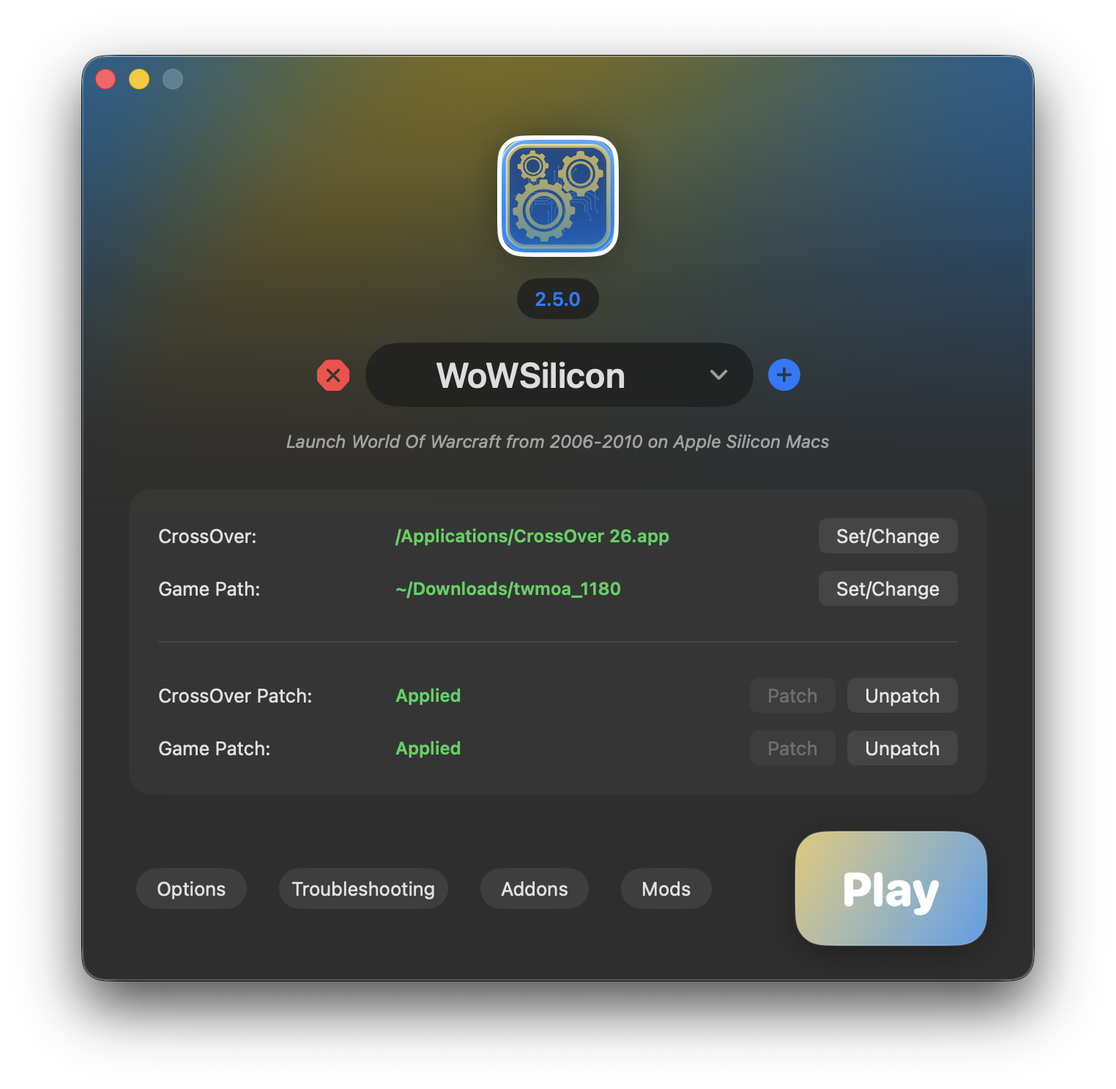
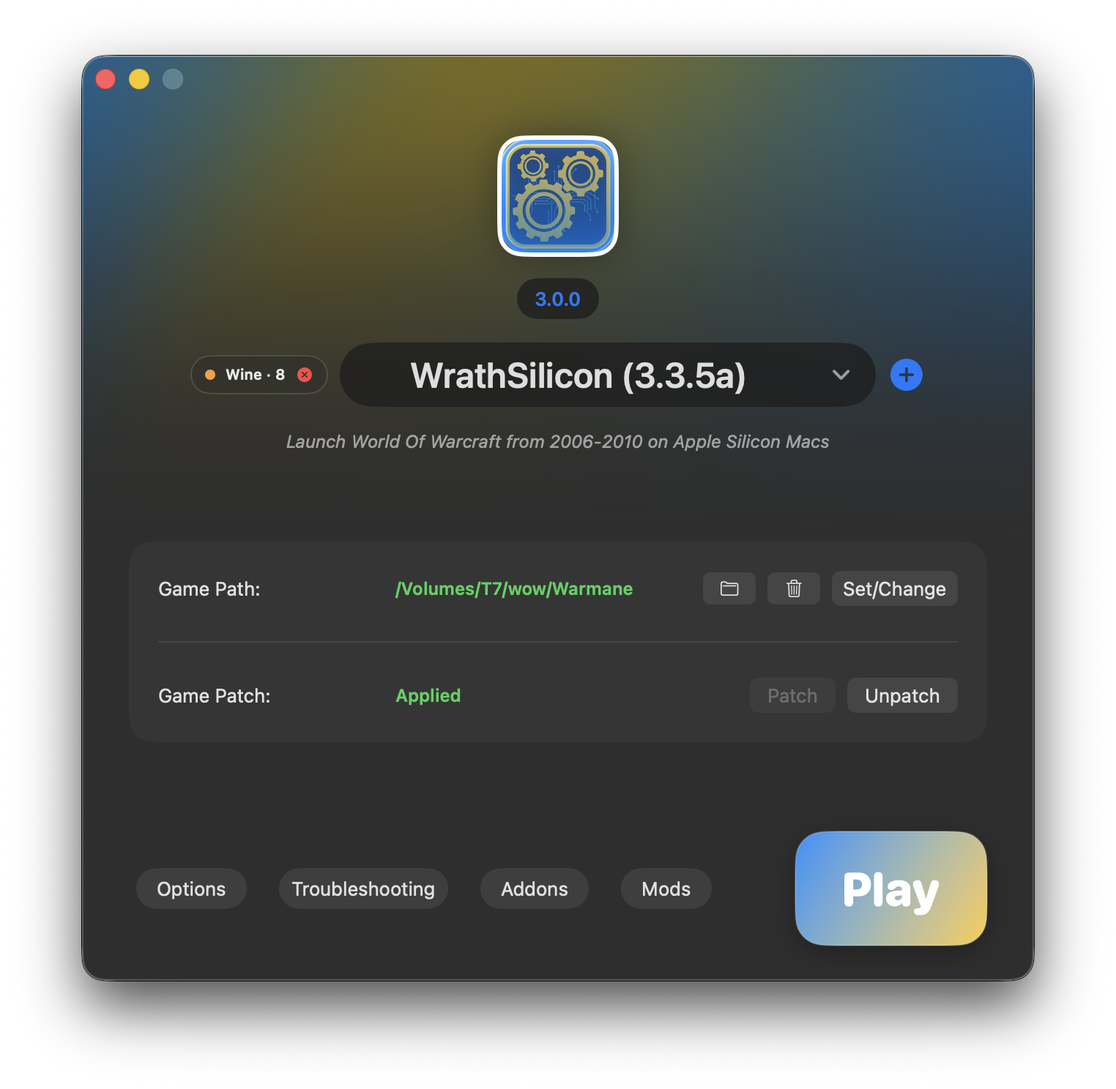
WoWSilicon 3.0 with standalone Wine runtime, D9VK, and accelerated x87 translation

diff --git a/index.html b/index.html
@@ -7,9 +7,9 @@
     <title>WoWSilicon - World of Warcraft Launcher for Apple Silicon Macs</title>
     <meta name="title" content="WoWSilicon - World of Warcraft Launcher for Apple Silicon Macs">
     <meta name="description"
-        content="WoWSilicon is a macOS launcher for running classic World of Warcraft clients on Apple Silicon. It patches CrossOver, installs RosettaX87 and libSiliconPatch, and manages addons and mods.">
+        content="WoWSilicon is a standalone macOS launcher for classic World of Warcraft and 32-bit Direct3D 9 games on Apple Silicon, with bundled Wine, D9VK, MTLd3D, and accelerated x87 translation.">
     <meta name="keywords"
-        content="WoWSilicon, World of Warcraft, WoW, Apple Silicon, M1, M2, M3, M4, Mac launcher, Vanilla, TBC, WotLK, Turtle WoW, Project Epoch, CrossOver, Wine, Rosetta 2, x87, SSE, libSiliconPatch, rosettax87, macOS">
+        content="WoWSilicon, World of Warcraft, WoW, Apple Silicon, M1, M2, M3, M4, Mac launcher, Vanilla, TBC, WotLK, Turtle WoW, Project Epoch, Wine, D9VK, MTLd3D, Metal, HDR, Rosetta 2, x87sidecar, x87, SSE, libSiliconPatch, rosettax87, Direct3D 9, macOS">
     <meta name="author" content="WoWSilicon">
     <meta name="robots" content="index, follow">
     <meta name="theme-color" content="#1f6feb">
@@ -19,7 +19,7 @@
     <meta property="og:url" content="https://wowsilicon.github.io/">
     <meta property="og:title" content="WoWSilicon - World of Warcraft Launcher for Apple Silicon Macs">
     <meta property="og:description"
-        content="Patch and launch Vanilla, TBC, and WotLK-era World of Warcraft clients on Apple Silicon Macs with CrossOver, RosettaX87, libSiliconPatch, and DX9 translation support.">
+        content="Launch Vanilla, TBC, and WotLK-era World of Warcraft clients on Apple Silicon Macs with bundled Wine, D9VK or MTLd3D, and accelerated x87 translation.">
     <meta property="og:image" content="https://wowsilicon.github.io/Icon.png">
     <meta property="og:image:width" content="512">
     <meta property="og:image:height" content="512">
@@ -31,7 +31,7 @@
     <meta property="twitter:url" content="https://wowsilicon.github.io/">
     <meta property="twitter:title" content="WoWSilicon - World of Warcraft Launcher for Apple Silicon Macs">
     <meta property="twitter:description"
-        content="Patch and launch classic World of Warcraft clients on Apple Silicon Macs with CrossOver, RosettaX87, libSiliconPatch, and DX9 translation support.">
+        content="Launch classic World of Warcraft clients on Apple Silicon Macs with bundled Wine, D9VK or MTLd3D, and accelerated x87 translation.">
     <meta property="twitter:image" content="https://wowsilicon.github.io/Icon.png">
 
     <link rel="icon" href="/favicon.ico" sizes="any">
@@ -113,6 +113,11 @@
             border: 1px solid rgba(139, 188, 255, 0.22);
         }
 
+        .release-badge {
+            display: inline-block;
+            letter-spacing: 0.04em;
+        }
+
         a,
         button {
             cursor: pointer;
@@ -143,14 +148,17 @@
             <div>
                 <img src="Icon.png" alt="WoWSilicon icon" class="mb-7 w-24 h-24 rounded-2xl glow" width="512"
                     height="512" decoding="async">
+                <p class="release-badge px-4 py-2 mb-5 text-sm font-semibold rounded-lg panel-strong text-accent">
+                    WoWSilicon 3.0 · Standalone runtime
+                </p>
                 <h1 class="mb-5 text-4xl font-bold leading-tight sm:text-5xl md:text-6xl font-display text-gold">
                     WoWSilicon</h1>
                 <p class="mb-6 max-w-2xl text-xl leading-relaxed text-gray-200 sm:text-2xl">
-                    A focused macOS launcher for World of Warcraft from 2006-2010 on Apple Silicon Macs.
+                    Launch classic World of Warcraft on Apple Silicon—without CrossOver.
                 </p>
                 <p class="mb-8 max-w-2xl text-base leading-7 text-gray-400 sm:text-lg">
-                    WoWSilicon wires together CrossOver, RosettaX87, DX9 translation, and libSiliconPatch so older WoW
-                    clients can run on macOS.
+                    WoWSilicon 3.0 bundles its own Wine runtime, D9VK and MTLd3D graphics backends, accelerated x87
+                    translation, and the tools needed to manage older game clients from one app.
                 </p>
                 <p class="mb-8 max-w-2xl text-base leading-7 text-gray-400 sm:text-lg">
                     Say goodbye to dedicating a full Windows VM just to play old WoW. Run directly on macOS, save
@@ -188,15 +196,15 @@
                 </div>
                 <div class="p-5 rounded-lg panel">
                     <p class="text-sm uppercase tracking-wide text-gray-500">Runtime</p>
-                    <p class="mt-2 text-xl font-semibold text-gold">RosettaX87 + DX9</p>
+                    <p class="mt-2 text-xl font-semibold text-gold">Bundled Wine 11</p>
                 </div>
                 <div class="p-5 rounded-lg panel">
-                    <p class="text-sm uppercase tracking-wide text-gray-500">Optimization</p>
-                    <p class="mt-2 text-xl font-semibold text-gold">libSiliconPatch</p>
+                    <p class="text-sm uppercase tracking-wide text-gray-500">Graphics</p>
+                    <p class="mt-2 text-xl font-semibold text-gold">D9VK + MTLd3D</p>
                 </div>
                 <div class="p-5 rounded-lg panel">
-                    <p class="text-sm uppercase tracking-wide text-gray-500">Management</p>
-                    <p class="mt-2 text-xl font-semibold text-gold">Addons + Mods</p>
+                    <p class="text-sm uppercase tracking-wide text-gray-500">x87 Translation</p>
+                    <p class="mt-2 text-xl font-semibold text-gold">JIT + Sidecar</p>
                 </div>
             </div>
         </section>
@@ -204,39 +212,50 @@
         <section id="features" class="container px-4 py-14 mx-auto sm:px-6 sm:py-20">
             <h2 class="mb-5 text-3xl font-bold text-center sm:text-4xl font-display text-gold">What WoWSilicon Does</h2>
             <p class="mx-auto mb-10 max-w-3xl text-center leading-8 text-gray-300">
-                The launcher is meant to make the fragile parts of older Windows WoW clients repeatable: choose a
-                profile, patch CrossOver, patch the game folder, adjust options, and launch.
+                Choose a profile or executable, patch the game folder, select your graphics and x87 backends, and
+                launch. The Wine runtime and translators are already included.
             </p>
             <div class="grid gap-5 mx-auto max-w-6xl md:grid-cols-2 lg:grid-cols-3">
                 <article class="p-6 rounded-lg panel">
                     <h3 class="mb-3 text-xl font-semibold text-accent">Version Profiles</h3>
                     <p class="leading-7 text-gray-300">Built-in profiles for VanillaSilicon 1.12.1, BurningSilicon
-                        2.4.3, and WrathSilicon 3.3.5a, with custom profiles for any server variants.</p>
+                        2.4.3, and WrathSilicon 3.3.5a, plus custom profiles and experimental profiles for other 32-bit
+                        Direct3D 9 games.</p>
                 </article>
                 <article class="p-6 rounded-lg panel">
-                    <h3 class="mb-3 text-xl font-semibold text-accent">CrossOver Patching</h3>
-                    <p class="leading-7 text-gray-300">Creates a patched wineloader path and adjusts CrossOver runtime
-                        files needed by the RosettaX87 launch flow.</p>
+                    <h3 class="mb-3 text-xl font-semibold text-accent">Standalone Wine Runtime</h3>
+                    <p class="leading-7 text-gray-300">Ships with a purpose-built Wine runtime. CrossOver and a
+                        separate Wine installation are no longer required.</p>
                 </article>
                 <article class="p-6 rounded-lg panel">
                     <h3 class="mb-3 text-xl font-semibold text-accent">Game Folder Patching</h3>
-                    <p class="leading-7 text-gray-300">Installs winerosetta, d3d9, libDllLdr, RosettaX87 files, and
-                        optional libSiliconPatch into the selected client folder.</p>
+                    <p class="leading-7 text-gray-300">Installs the appropriate Direct3D 9 and WoW-specific runtime
+                        files while keeping generic game profiles limited to the required d3d9.dll.</p>
                 </article>
                 <article class="p-6 rounded-lg panel">
-                    <h3 class="mb-3 text-xl font-semibold text-accent">Addon Manager</h3>
-                    <p class="leading-7 text-gray-300">Install addons from Git URLs, update individual addons, update
-                        all, bulk import/export addon lists, and filter Git-managed addons.</p>
+                    <h3 class="mb-3 text-xl font-semibold text-accent">Two Graphics Backends</h3>
+                    <p class="leading-7 text-gray-300">Use D9VK for Vulkan-based translation or MTLd3D for direct
+                        Direct3D 9-to-Metal rendering, including optional HDR.</p>
                 </article>
                 <article class="p-6 rounded-lg panel">
-                    <h3 class="mb-3 text-xl font-semibold text-accent">Mod Manager</h3>
-                    <p class="leading-7 text-gray-300">Enable, disable, refresh, and remove DLL-style mods while keeping
-                        required runtime pieces protected.</p>
+                    <h3 class="mb-3 text-xl font-semibold text-accent">Flexible x87 Translation</h3>
+                    <p class="leading-7 text-gray-300">Choose between rosettax87_jit and x87sidecar per profile, or
+                        disable accelerated x87 translation for troubleshooting.</p>
                 </article>
                 <article class="p-6 rounded-lg panel">
-                    <h3 class="mb-3 text-xl font-semibold text-accent">Options Built In</h3>
-                    <p class="leading-7 text-gray-300">Configure graphics, cursor size, Retina mode, Option-as-Alt,
-                        realmlist, custom environment variables, terminal launch mode, and Metal HUD.</p>
+                    <h3 class="mb-3 text-xl font-semibold text-accent">Addons and Mods</h3>
+                    <p class="leading-7 text-gray-300">Install nested addon repositories, update managed addons, and
+                        enable or remove DLL-style mods while protecting required runtime files.</p>
+                </article>
+                <article class="p-6 rounded-lg panel">
+                    <h3 class="mb-3 text-xl font-semibold text-accent">Process Monitoring</h3>
+                    <p class="leading-7 text-gray-300">See when Wine processes are active and use Force Quit when a
+                        game or helper process remains open.</p>
+                </article>
+                <article class="p-6 rounded-lg panel">
+                    <h3 class="mb-3 text-xl font-semibold text-accent">Dependencies Built In</h3>
+                    <p class="leading-7 text-gray-300">Install Wine Mono, Microsoft Visual C++ 2022, and Git from the
+                        Dependencies view when a client or addon needs them.</p>
                 </article>
             </div>
         </section>
@@ -244,7 +263,7 @@
         <section id="runtime" class="container px-4 py-14 mx-auto sm:px-6 sm:py-20">
             <div class="grid gap-8 mx-auto max-w-6xl lg:grid-cols-[0.9fr_1.1fr]">
                 <div>
-                    <h2 class="mb-5 text-3xl font-bold sm:text-4xl font-display text-gold">Why the Runtime Patch Matters
+                    <h2 class="mb-5 text-3xl font-bold sm:text-4xl font-display text-gold">Why x87 Translation Matters
                     </h2>
                     <p class="mb-5 leading-8 text-gray-300">
                         Classic WoW clients rely on old x86 behavior, including x87 floating-point instructions. On
@@ -252,9 +271,9 @@
                         SSE-oriented code paths.
                     </p>
                     <p class="mb-5 leading-8 text-gray-300">
-                        WoWSilicon includes the libSiliconPatch work to hook into the game at runtime and reduce x87
-                        instruction usage where possible. In practical terms, it steers hot code toward SSE-friendly
-                        behavior, which Rosetta 2 tends to translate more efficiently.
+                        WoWSilicon lets each profile use rosettax87_jit, x87sidecar, or no accelerated translator.
+                        Supported WoW clients can also use libSiliconPatch to replace selected hot paths with
+                        SSE-friendly implementations.
                     </p>
                 </div>
                 <div class="grid gap-4">
@@ -264,15 +283,19 @@
                             SSE, which results in better performance on Apple Silicon.</p>
                     </div>
                     <div class="p-6 rounded-lg panel-strong">
-                        <h3 class="mb-3 text-xl font-semibold text-accent">RosettaX87</h3>
-                        <p class="leading-7 text-gray-300">Hooks Rosetta 2 directly and emits ARM instructions to
-                            accelerate x87 globally.</p>
+                        <h3 class="mb-3 text-xl font-semibold text-accent">rosettax87_jit</h3>
+                        <p class="leading-7 text-gray-300">Hooks Rosetta 2 and emits ARM instructions to accelerate x87
+                            translation, with support for current macOS releases.</p>
                     </div>
                     <div class="p-6 rounded-lg panel-strong">
-                        <h3 class="mb-3 text-xl font-semibold text-accent">DX9 Translation</h3>
-                        <p class="leading-7 text-gray-300">WoWSilicon stages d3d9 and starts the game with
-                            DXVK/MoltenVK-related environment settings, including optional Metal HUD output for
-                            troubleshooting FPS.</p>
+                        <h3 class="mb-3 text-xl font-semibold text-accent">x87sidecar</h3>
+                        <p class="leading-7 text-gray-300">Runs accelerated x87 translation in an isolated helper
+                            process as an alternative to rosettax87_jit.</p>
+                    </div>
+                    <div class="p-6 rounded-lg panel-strong">
+                        <h3 class="mb-3 text-xl font-semibold text-accent">D9VK or MTLd3D</h3>
+                        <p class="leading-7 text-gray-300">Choose Vulkan-based D9VK or the Metal-native MTLd3D backend
+                            per profile. Both are bundled with WoWSilicon.</p>
                     </div>
                 </div>
             </div>
@@ -291,6 +314,8 @@
                             enabled by default.</li>
                         <li><span class="font-semibold text-accent">Custom profiles</span> - create additional profiles
                             from the base versions for custom WoW clients or alternate folders.</li>
+                        <li><span class="font-semibold text-accent">Non-WoW game</span> - experimental support for other
+                            32-bit Direct3D 9 games using a selected executable and d3d9.dll only.</li>
                     </ul>
                 </div>
                 <div class="p-7 rounded-lg panel">
@@ -298,10 +323,8 @@
                     <ul class="space-y-4 text-gray-300">
                         <li>Apple Silicon Mac, M1 or newer.</li>
                         <li>macOS 15 or later.</li>
-                        <li>CrossOver 26 installed and opened at least once.</li>
-                        <li>An <strong>original</strong> World of Warcraft client folder with the game executable
-                            inside.</li>
-                        <li>Permission to modify the selected game folder and CrossOver app bundle.</li>
+                        <li>A supported World of Warcraft client or experimental 32-bit Direct3D 9 executable.</li>
+                        <li>Permission to read and modify the selected game folder.</li>
                     </ul>
                 </div>
             </div>
@@ -330,8 +353,8 @@
                 <h2 class="mb-5 text-3xl font-bold text-center sm:text-4xl font-display text-gold">Installation Guide
                 </h2>
                 <p class="mx-auto mb-12 max-w-2xl text-center text-lg leading-8 text-gray-300">
-                    These steps mirror the old TurtleSilicon setup flow, updated for WoWSilicon and the current patch
-                    stack.
+                    WoWSilicon includes the runtime it needs. Install the app, choose a profile or executable, and
+                    patch the selected game folder.
                 </p>
 
                 <div class="space-y-6">
@@ -394,11 +417,11 @@
                                 class="flex-shrink-0 flex justify-center items-center w-10 h-10 font-bold text-white rounded-full bg-accent">
                                 4</div>
                             <div>
-                                <h3 class="mb-2 text-xl font-semibold text-accent">Run CrossOver once</h3>
-                                <p class="mb-3 leading-7 text-gray-300">Open CrossOver from Applications once, allow
-                                    macOS to open it, then quit it.</p>
-                                <p class="leading-7 text-gray-400">This lets CrossOver initialize its internal files
-                                    before WoWSilicon patches the wineloader path.</p>
+                                <h3 class="mb-2 text-xl font-semibold text-accent">Launch and choose a profile</h3>
+                                <p class="mb-3 leading-7 text-gray-300">Open WoWSilicon and select a built-in WoW
+                                    profile, create a custom profile, or choose the experimental Non-WoW game option.</p>
+                                <p class="leading-7 text-gray-400">Select the game executable when prompted and allow
+                                    macOS to access its folder. Existing 2.5.5 profiles are migrated automatically.</p>
                             </div>
                         </div>
                     </div>
@@ -409,59 +432,13 @@
                                 class="flex-shrink-0 flex justify-center items-center w-10 h-10 font-bold text-white rounded-full bg-accent">
                                 5</div>
                             <div>
-                                <h3 class="mb-2 text-xl font-semibold text-accent">Launch WoWSilicon</h3>
-                                <p class="leading-7 text-gray-300">Open WoWSilicon from Applications. If you used
-                                    TurtleSilicon before, WoWSilicon can migrate existing settings when it detects the
-                                    old support folder.</p>
-                            </div>
-                        </div>
-                    </div>
-
-                    <div class="p-6 rounded-lg panel">
-                        <div class="flex gap-4">
-                            <div
-                                class="flex-shrink-0 flex justify-center items-center w-10 h-10 font-bold text-white rounded-full bg-accent">
-                                6</div>
-                            <div>
-                                <h3 class="mb-2 text-xl font-semibold text-accent">Grant file access</h3>
-                                <p class="mb-3 leading-7 text-gray-300">When macOS asks for file access, allow it.
-                                    WoWSilicon needs access to the CrossOver app bundle and the game folder you select.
-                                </p>
-                                <p class="leading-7 text-gray-400">It only touches the paths you choose so it can copy
-                                    runtime DLLs, write config files, and apply or remove patches.</p>
-                            </div>
-                        </div>
-                    </div>
-
-                    <div class="p-6 rounded-lg panel">
-                        <div class="flex gap-4">
-                            <div
-                                class="flex-shrink-0 flex justify-center items-center w-10 h-10 font-bold text-white rounded-full bg-accent">
-                                7</div>
-                            <div>
-                                <h3 class="mb-2 text-xl font-semibold text-accent">Grant App Management access</h3>
-                                <p class="mb-3 leading-7 text-gray-300">When you click <span
-                                        class="font-semibold text-gold">Patch CrossOver</span>, macOS may request App
-                                    Management permission.</p>
-                                <p class="leading-7 text-gray-400">If the prompt does not appear, open System Settings >
-                                    Privacy & Security > App Management and enable WoWSilicon manually.</p>
-                            </div>
-                        </div>
-                    </div>
-
-                    <div class="p-6 rounded-lg panel">
-                        <div class="flex gap-4">
-                            <div
-                                class="flex-shrink-0 flex justify-center items-center w-10 h-10 font-bold text-white rounded-full bg-accent">
-                                8</div>
-                            <div>
                                 <h3 class="mb-2 text-xl font-semibold text-accent">Patch and play</h3>
                                 <ul class="space-y-2 leading-7 text-gray-300">
-                                    <li>Set your CrossOver path.</li>
-                                    <li>Select the WoW version profile you want to use.</li>
-                                    <li>Set your game folder.</li>
-                                    <li>Click Patch CrossOver, then Patch Game.</li>
-                                    <li>Adjust Options if needed, then click Play.</li>
+                                    <li>Confirm the selected profile and executable.</li>
+                                    <li>Click Patch to install the required game files.</li>
+                                    <li>Choose D9VK or MTLd3D and your preferred x87 translator in Options.</li>
+                                    <li>Install optional dependencies only if your client needs them.</li>
+                                    <li>Click Play.</li>
                                 </ul>
                             </div>
                         </div>
@@ -476,20 +453,24 @@
                 <div class="p-7 rounded-lg panel">
                     <h2 class="mb-5 text-2xl font-bold font-display text-gold">Troubleshooting</h2>
                     <ul class="space-y-4 leading-7 text-gray-300">
-                        <li><span class="font-semibold text-accent">CrossOver patch is not applied:</span> verify the
-                            CrossOver path and grant App Management permission.</li>
                         <li><span class="font-semibold text-accent">Game patch is not applied:</span> make sure the
-                            selected folder contains WoW.exe or the expected client executable.</li>
+                            selected executable exists and its folder is writable.</li>
+                        <li><span class="font-semibold text-accent">Graphics problems:</span> switch between D9VK and
+                            MTLd3D in Options to identify backend-specific issues.</li>
+                        <li><span class="font-semibold text-accent">Launch problems:</span> try the other x87 translator
+                            and install Wine Mono or Visual C++ only when the client requires it.</li>
+                        <li><span class="font-semibold text-accent">Wine remains active:</span> use the process indicator
+                            and Force Quit control to close remaining Wine processes.</li>
                         <li><span class="font-semibold text-accent">Vanilla tweaked executable is stale:</span> let
                             WoWSilicon regenerate it when the build mismatch prompt appears.</li>
-                        <li><span class="font-semibold text-accent">Need logs:</span> enable Show Terminal in Options to
-                            launch through Terminal and keep output visible.</li>
+                        <li><span class="font-semibold text-accent">Need logs:</span> generate a debug log from
+                            Troubleshooting or enable Show Terminal in Options.</li>
                     </ul>
                 </div>
                 <div class="p-7 rounded-lg panel">
                     <h2 class="mb-5 text-2xl font-bold font-display text-gold">Need Help?</h2>
-                    <p class="mb-4 leading-7 text-gray-300">If setup fails, include your selected WoW version, CrossOver
-                        version, macOS version, and the exact step that failed when opening an issue.</p>
+                    <p class="mb-4 leading-7 text-gray-300">If setup fails, include your macOS version, selected profile,
+                        graphics backend, x87 translator, debug log, and the exact step that failed.</p>
                     <div class="flex flex-col gap-3 sm:flex-row">
                         <a href="https://discord.gg/pwZD5zBwfD" target="_blank" rel="noopener noreferrer"
                             class="font-semibold text-accent hover:underline">Join the Discord</a>

diff --git a/stats.html b/stats.html
@@ -189,9 +189,9 @@
                 <h2 class="mb-4 text-2xl font-bold font-display text-gold">Privacy</h2>
                 <p class="leading-7 text-gray-300">
                     Telemetry is optional in the launcher. It is used for public aggregate stats only and can be turned
-                    off in Options at any time. The current client sends app version, WoW version, renderer, macOS
-                    version, and the configured realmlist value. Public charts count each anonymous install once per
-                    value per day, so reopening the launcher does not inflate the visible numbers.
+                    off in Options at any time. The current client sends app version, WoW version, renderer, x87
+                    translation, macOS version, and the configured realmlist value. Public charts count each anonymous
+                    install once per value per day, so reopening the launcher does not inflate the visible numbers.
                 </p>
             </div>
         </section>
